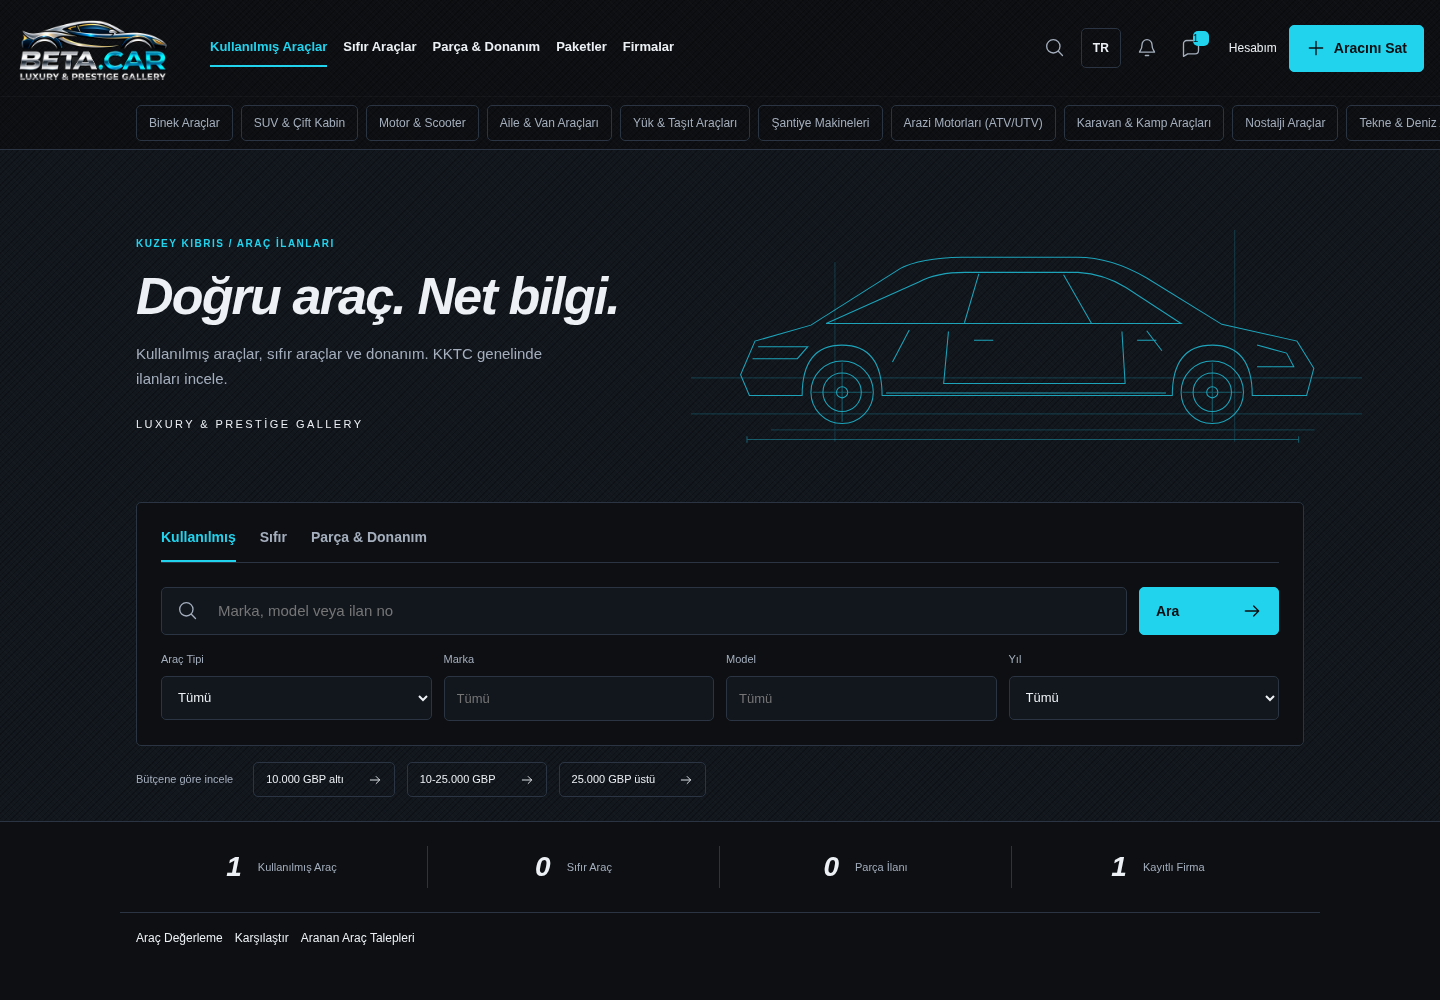
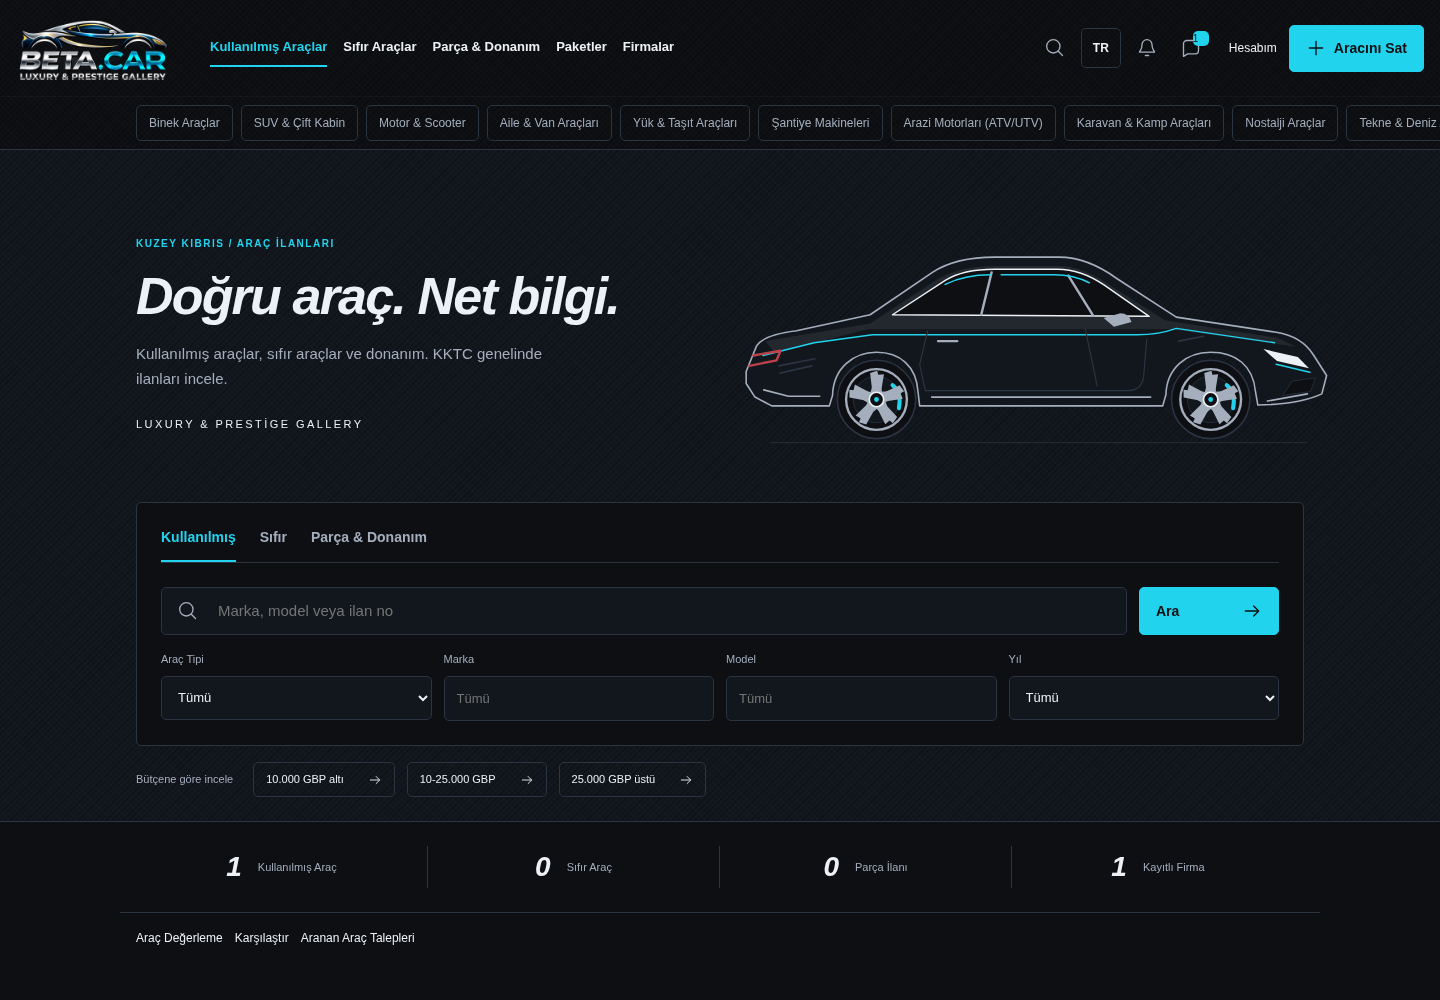
Ana sayfadaki araç çizimini yenile

Changed region(s): [[0.5, 0.248, 0.9375, 0.434]]

diff --git a/js/pages/home.js b/js/pages/home.js
@@ -7,14 +7,38 @@ import { esc, key, read, write } from '../utils.js';
 import { rpc } from '../api.js';
 
 export const drawing = () =>
-  `<svg class="hero-car" viewBox="0 0 840 300" fill="none" aria-hidden="true"><g stroke="currentColor" stroke-width="1.3">` +
-  `<path opacity=".25" d="M0 250H840M100 270H780M680 20V285M180 60V285M0 205H840"/>` +
-  `<path d="M62 201l18-42 70-20 112-71q24-13 77-14h144q43 0 87 26l94 58 94 21 21 34-9 34h-68q0-63-50-63t-50 63H239q0-63-50-63t-50 63H73z"/>` +
-  `<path d="M169 137h444l-69-45q-27-17-60-19H343q-36 0-58 12zM360 75l-18 61M466 76l35 61M322 147l-6 65h227l-4-65M570 146l19 25M273 145l-21 ` +
-  `40M84 166h62l-13 15H77M708 164l37 10 9 17h-46M354 158h24M558 158h24M244 224h350"/><circle cx="189" cy="223" r="39"/>` +
-  `<circle cx="189" cy="223" r="24"/><circle cx="189" cy="223" r="7"/><circle cx="652" cy="223" r="39"/><circle cx="652" cy="223" r="24"/>` +
-  `<circle cx="652" cy="223" r="7"/><path opacity=".5" d="M189 186v74M152 223h74M652 186v74M615 223h74M70 282h690M70 278v8M760 278v8"/></g>` +
-  `</svg>`;
+  `<svg class="hero-car" viewBox="0 0 840 300" fill="none" aria-hidden="true" stroke-linecap="round" stroke-linejoin="round">
+    <path d="M100 286H770" stroke="var(--line)"/>
+    ${[232, 650]
+      .map(
+        (x) => `<g transform="translate(${x} 232)">
+      <circle r="49" fill="var(--bg)" stroke="var(--line)" stroke-width="2"/>
+      <circle r="38" stroke="var(--muted)" stroke-width="3"/>
+      <circle r="29" fill="var(--surface)" stroke="var(--line)"/>
+      <path d="M20-18Q32-8 28 11" stroke="currentColor" stroke-width="5"/>
+      ${[0, 72, 144, 216, 288].map((a) => `<path d="M-5-8-8-33 1-36 7-9 19 24 11 31 0 9Z" fill="var(--muted)" transform="rotate(${a})"/>`).join('')}
+      <circle r="9" fill="var(--bg)" stroke="var(--text)" stroke-width="2"/>
+      <circle r="3" fill="currentColor"/>
+    </g>`,
+      )
+      .join('')}
+    <path d="M69 197 82 165Q91 151 132 146L224 126 302 73Q331 54 380 54H460Q496 54 533 81L607 129 732 148Q764 153 779 177L795 202 789 225Q761 238 709 239L706 222C703 189 681 173 650 173S595 193 594 226L590 240H286L284 223C282 190 261 173 232 173S178 193 177 227L173 240H101L80 229 69 212Z" fill="var(--surface)" stroke="var(--muted)" stroke-width="2"/>
+    <path d="M93 159 224 137 303 85Q331 65 382 65H459Q491 65 527 91L593 133 734 155 757 166 602 144H221L105 174Z" fill="var(--text)" opacity=".08"/>
+    <path d="M252 126 318 83Q340 69 380 69H458Q488 69 517 89L573 128Z" fill="var(--bg)" stroke="var(--text)" stroke-width="1.8"/>
+    <path d="M376 73 363 126M472 77 503 127" stroke="var(--muted)" stroke-width="3"/>
+    <path d="M318 88Q342 76 375 76M388 76H454Q479 76 498 86" stroke="currentColor" stroke-width="2"/>
+    <path d="M516 130 537 124Q548 124 551 135L529 141Z" fill="var(--muted)"/>
+    <path d="M90 177 154 161 227 151H558Q585 151 607 143L730 161" stroke="currentColor" stroke-width="1.7"/>
+    <path d="M296 146 286 188 293 221H548Q563 220 566 205L570 157M493 143 508 215" stroke="var(--line)" stroke-width="1.5"/>
+    <path d="M309 159H333" stroke="var(--muted)" stroke-width="3"/>
+    <path d="M301 229H575" stroke="var(--muted)" stroke-width="2"/>
+    <path d="M110 190 155 181M111 199 151 190M610 159 641 153" stroke="var(--line)" stroke-width="2"/>
+    <path d="M716 169 759 179 773 193 733 184Z" fill="var(--text)"/>
+    <path d="M732 188 774 198" stroke="currentColor" stroke-width="2"/>
+    <path d="M752 209 781 205 775 222 740 227Z" fill="var(--bg)" stroke="var(--line)"/>
+    <path d="M78 177 112 171 107 183 73 190" stroke="var(--red)" stroke-width="3"/>
+    <path d="M91 220 122 228H161M721 234 771 225" stroke="var(--muted)" stroke-width="2"/>
+  </svg>`;
 
 export function home() {
   $('#main').innerHTML =

diff --git a/style.css b/style.css
@@ -332,7 +332,7 @@ h1 {
   color: var(--cyan);
   width: 115%;
   margin-left: -5%;
-  opacity: 0.75;
+  opacity: 1;
 }
 .search-box {
   padding: var(--s5);
